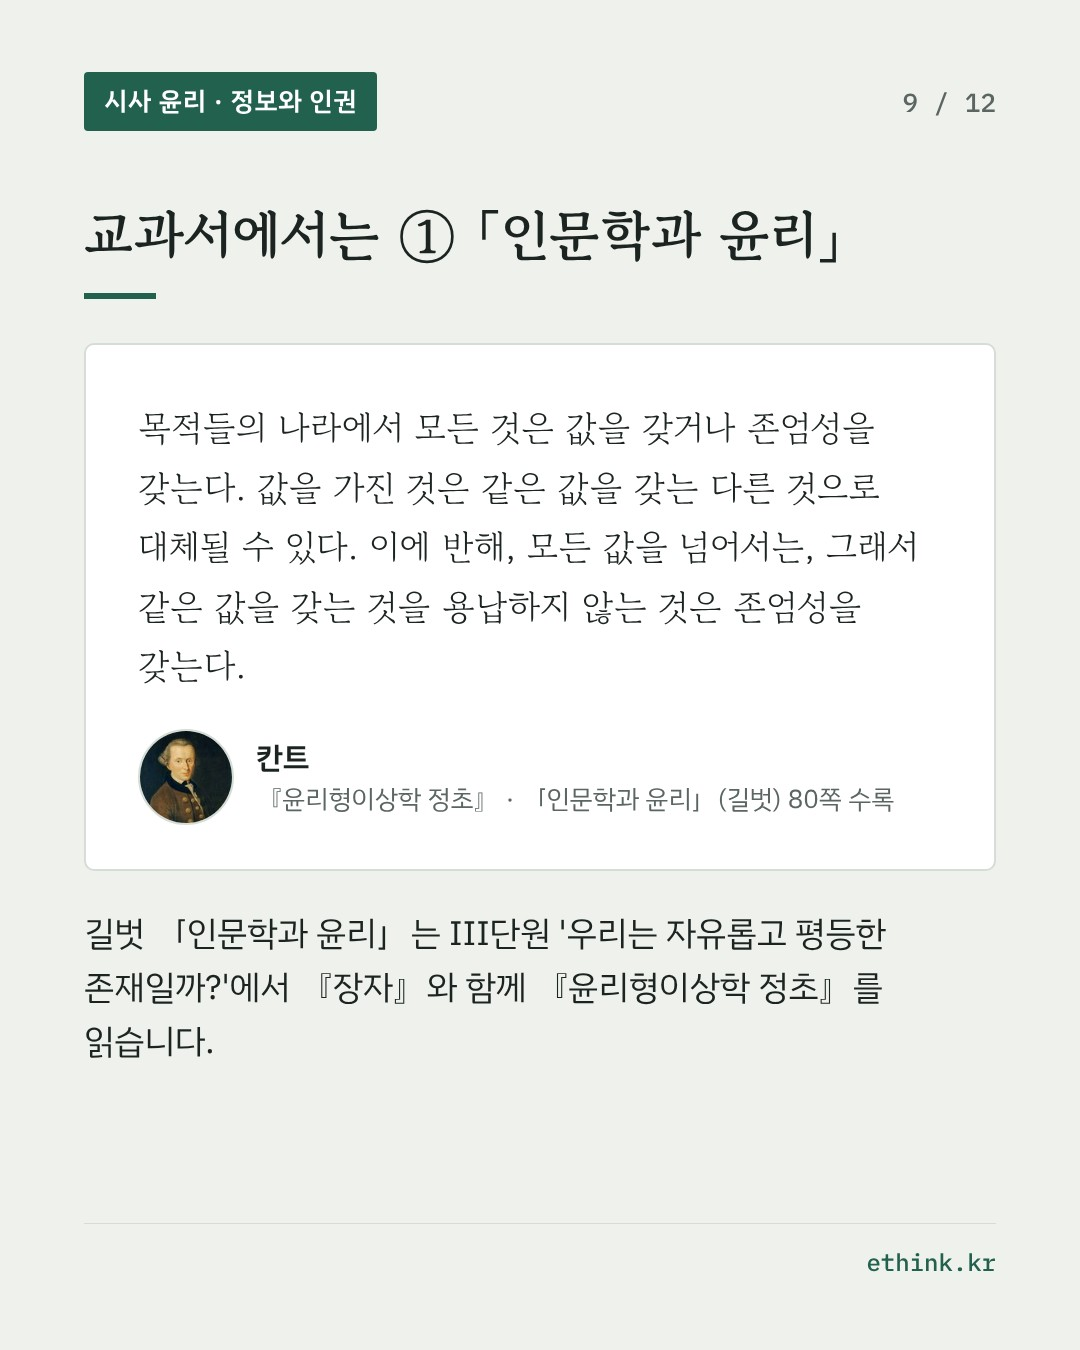
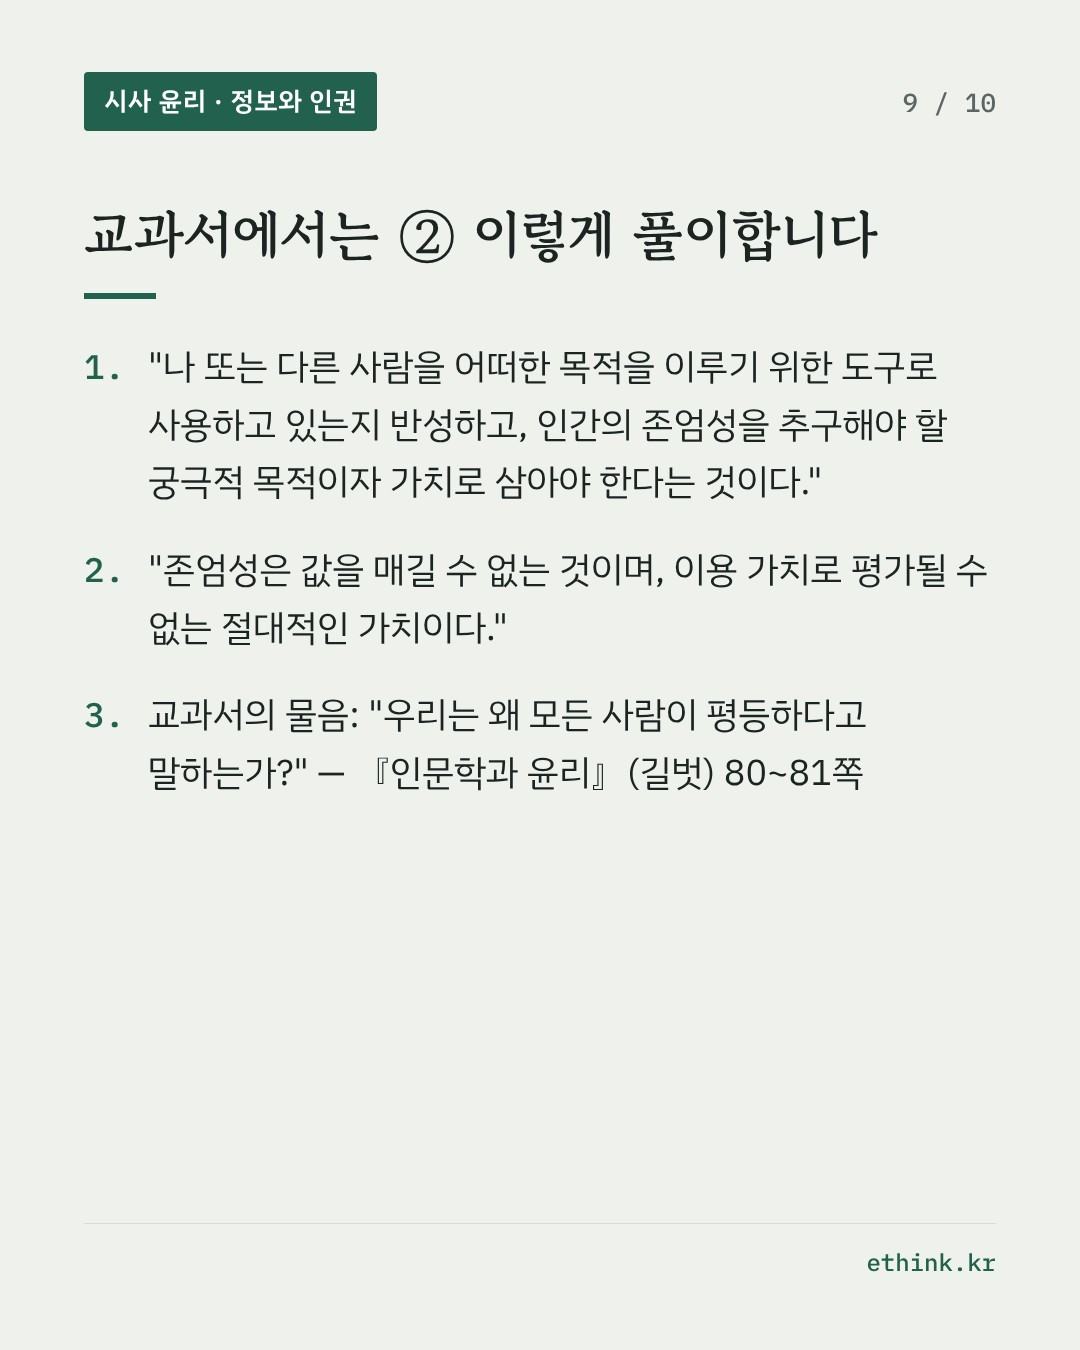
카드 시안 4: 10장(자동 게시 한도), 책·교과서 이름 겹낫쇠, 지침 갱신
Claude-Session: https://claude.ai/code/session_015bQvLW38M9G43q7XUxVD63

diff --git a/_tools/WRITING_GUIDE.md b/_tools/WRITING_GUIDE.md
@@ -31,7 +31,7 @@
 ## 4. 사상가 원문
 - 사상가가 나오면 원문을 함께 싣는다: `<figure class="src"><blockquote><p>원문</p></blockquote><figcaption>사상가, 『책』(옮긴이 옮김, 출판사, 연도) · 교과서/단행본 수록 위치</figcaption></figure>`. 두 입장 비교는 `<div class="vs">` 안에 figure 두 개, 각 figure에 `<p class="vs-head">입장 · 사상가</p>`.
 - 원문은 반드시 실제 텍스트에서 가져온다: 재형 님 옵시디언 볼트 `Vault/_library/`(책 OCR 원문, 읽기 전용)와 `Vault/textbook/`, 또는 확인 가능한 공개 원문. 기억으로 쓰거나 다듬어 만든 문장을 원문처럼 싣지 않는다. 찾지 못하면 그 자리에 `[원문 확인 필요: 사상가, 책, 찾을 대목]`을 남기고 보고한다.
-- 교과서 수록 원문이면 교과서와 사상가 책을 모두 출처로 적는다. 교과서는 「인문학과 윤리」(길벗) 80쪽 수록처럼 책 이름과 **쪽수**만 적고, 단원 이름이나 코너 이름(「사상으로 보는 윤리문제」, 「나의 인문학 노트」 등)은 적지 않는다. 쪽수는 Dropbox/AI 작업실/교과서 pdf로 콘텐츠 제작/의 교과서 PDF(한쪽보기)에서 pdftotext로 문장을 찾아 그 쪽에 인쇄된 번호로 확인한다. 단행본 『윤리 사상가로 읽는 통합사회』도 같은 방식으로 쪽수만 적는다(PDF: Dropbox/_드롭 창고/윤리 사상가로 읽는 통합사회 단행본 전체(표지포함).pdf, 두 쪽 펼침이라 인용문이 있는 쪽의 번호를 쓴다). 교과서가 아니면 사상가의 어느 책인지 밝힌다.
+- 교과서 수록 원문이면 교과서와 사상가 책을 모두 출처로 적는다. 교과서는 『인문학과 윤리』(길벗) 80쪽 수록처럼 책 이름과 **쪽수**만 적고, 단원 이름이나 코너 이름(「사상으로 보는 윤리문제」, 「나의 인문학 노트」 등)은 적지 않는다. 쪽수는 Dropbox/AI 작업실/교과서 pdf로 콘텐츠 제작/의 교과서 PDF(한쪽보기)에서 pdftotext로 문장을 찾아 그 쪽에 인쇄된 번호로 확인한다. 단행본 『윤리 사상가로 읽는 통합사회』도 같은 방식으로 쪽수만 적는다(PDF: Dropbox/_드롭 창고/윤리 사상가로 읽는 통합사회 단행본 전체(표지포함).pdf, 두 쪽 펼침이라 인용문이 있는 쪽의 번호를 쓴다). 교과서가 아니면 사상가의 어느 책인지 밝힌다.
 - 원문을 찾는 순서: ① 볼트 `Vault/_library/`(재형 님 도서관 라이브러리)와 기출 문제 원문 자료집 → ② 실제 한국어 번역서에 실린 문장 → ③ 원어 원문을 검색해 직접 번역(번역했음을 출처에 밝힌다).
 - 출처에 타사 교과서 출판사 이름을 쓰지 않는다. 타사 교과서를 써야 하면 출판사 이름은 빼고 과목과 단원만 밝힌다(예: 「현대사회와 윤리」 교과서 '직업 생활과 윤리' 단원 수록).
 
@@ -41,10 +41,11 @@
 
 ## 6. 썸네일(공유 이미지)
 - 글마다 `assets/og/YYYY-MM-DD-N.jpg`: `NODE_PATH=$(npm root -g) node _tools/og-page.cjs YYYY-MM-DD-N "윤리로 읽는 뉴스 · 묶음 이름" "글 제목" "수업 질문" /weekly/YYYY-MM-DD/N/` 로 만들고, 글 앞머리에 `og_image: /assets/og/YYYY-MM-DD-N.jpg`를 적는다. 없으면 호 이미지(호가 있을 때)나 사이트 기본 이미지가 쓰인다.
-- 인스타그램(@ethink.kr) 카드 뉴스(2026-10-27 글부터): 글마다 10~12장의 세로 카드(1080×1350)를 만든다. 시사 소재는 오늘의 현실과 잇는 재료이고, 카드의 중심은 그것을 보는 렌즈인 사상가의 이야기·이론·원문이다. 시사 사실은 1~2장으로 줄이고, 사상가 원문 카드(quote)를 여러 장 쓴다. 길벗 교과서에 해당 사상가가 실려 있으면 "교과서에서는" 카드로 교과서 인용·풀이·물음을 그대로 옮기고 쪽수를 적는다. 인스타그램 API는 10장까지만 자동 게시하므로 11장 이상이면 재형 님이 앱에서 직접 올린다.
+- 책 이름은 교과서를 포함해 겹낫쇠 『』로 쓴다(『인문학과 윤리』, 『윤리문제 탐구』). 홑낫쇠 「」는 단원·글·작품(그림) 이름에만 쓴다. 책·교과서 이름은 겹낫쇠.
+- 인스타그램(@ethink.kr) 카드 뉴스(2026-10-27 글부터): 글마다 10장의 세로 카드(1080×1350)를 만든다. 시사 소재는 오늘의 현실과 잇는 재료이고, 카드의 중심은 그것을 보는 렌즈인 사상가의 이야기·이론·원문이다. 시사 사실은 1~2장으로 줄이고, 사상가 원문 카드(quote)를 여러 장 쓴다. 길벗 교과서에 해당 사상가가 실려 있으면 "교과서에서는" 카드로 교과서 인용·풀이·물음을 그대로 옮기고 쪽수를 적는다. 인스타그램 API는 10장까지만 자동 게시하므로 10장을 넘기지 않는다.
   - 디자인: 시사 글은 연한 녹색 바탕·진한 녹색 표지, 책 글은 종이색 바탕·벽돌색 표지. 모든 카드 왼쪽 위 같은 자리에 분류(「시사 윤리 · 정보와 인권」, 「윤리로 읽는 책 · 지은이」), 하단에는 작게 ethink.kr만 둔다(Ethink 글자 넣지 않음).
   - 표지: 그림 한 장 위에 질문 한 줄(hook, 25자 안팎). 그림은 저작권이 풀린 명화·판화(위키미디어 커먼즈, 레이크스미술관·메트로폴리탄 CC0 등)나 사상가 초상, 재형 님이 찍은 사진만 쓴다. 보도사진은 쓰지 않는다. 받은 그림은 `assets/art/`에 두고 credit에 "작품명, 시대·작가 · 퍼블릭 도메인/CC0"를 적는다. 책 글에 그림이 없으면 책 표지가 가운데 들어간다.
-  - 카드 문안 `_items/YYYY-MM-DD/ig-cards-N.yml`을 쓴다(본보기 `_items/2026-10-24/ig-cards-1.yml`, 형식은 `_tools/ig-cards.cjs` 머리말). 기본 구성(본보기 12장): ① cover ② notes 오늘의 사건(사실 3개) ③~⑥ 첫 사상가: 이야기 풀이(그림), 원문 quote 2~3장(note로 사례와 잇는 한두 문장), 반대편 또는 대답 ⑦⑧ 둘째 사상가 원문 quote 2장 ⑨⑩ 교과서에서는(교과서 수록 원문 quote, 교과서 풀이 notes) ⑪ flow 수업 흐름 ⑫ end 이번 주 질문. 원문은 도서관 번역서·교과서 텍스트에서 그대로 옮기고(원어 괄호 표기만 뺄 수 있음) 출처에 권·스테파누스 쪽수나 B판 쪽수를 적는다. 핵심 말은 **굵게**.
+  - 카드 문안 `_items/YYYY-MM-DD/ig-cards-N.yml`을 쓴다(본보기 `_items/2026-10-24/ig-cards-1.yml`, 형식은 `_tools/ig-cards.cjs` 머리말). 기본 구성(본보기 10장): ① cover(sub에 사건 한두 문장) ②~⑤ 첫 사상가: 원문 quote, 이야기 풀이(그림), 원문 quote(note에 사건의 수치·사실을 이어 붙임), 반대편 또는 대답 ⑥⑦ 둘째 사상가 원문 quote 2장 ⑧⑨ 교과서에서는(교과서 수록 원문 quote, 교과서 풀이 notes) ⑩ end 이번 주 질문. 원문은 도서관 번역서·교과서 텍스트에서 그대로 옮기고(원어 괄호 표기만 뺄 수 있음) 출처에 권·스테파누스 쪽수나 B판 쪽수를 적는다. 핵심 말은 **굵게**.
   - 「윤리로 읽는 책」은 문안을 `_reads/ig/<글 파일이름>.yml`에 두고 ② 대신 book(표지 작게, "표지 이미지: 알라딘" 자동)과 underline(밑줄 1~2개) 카드를 쓴다. 책 글 카드는 자동 게시하지 않는다(재형 님이 따로 올림).
   - 생존 인물은 사이트와 같이 머리글자 원으로 둔다(faces.yml).
   - **승인**: 문안 파일 첫 줄 근처 `approved: false`로 만든다. 재형 님께 카드 이미지 전부와 캡션을 보여 드리고 승인을 받은 뒤에만 `approved: true`로 바꿔 main에 넣는다. `approved: true`가 아니면 자동 게시 도구가 올리지 않는다.
@@ -58,7 +59,7 @@
 ## 8. 「윤리로 읽는 책」
 - 정기 발행이 아니다. 재형 님이 읽은 책 가운데 골라 쓸 때마다 `_reads/YYYY-MM-DD-영문.md`로 올린다(양식 `_templates/새-책-글.md`).
 - 본문 소제목 세 개: `##### 이 책은 무엇을 묻나` / `##### 윤리 수업과 이어지는 지점` / `##### 수업에서 쓰는 법`.
-- 교과서 단원 연계표에서 「인문학과 윤리」·「윤리문제 탐구」가 나오면 단원명 뒤에 줄을 바꿔 `<br><span class="tbl-note">(길벗 교과서 ○○~○○쪽)</span>`으로 붙인다(볼드 없이 한 단계 작은 글자). 쪽수는 Dropbox `AI 작업실/교과서 pdf로 콘텐츠 제작/인문학과 윤리 소단원별` 등 길벗 교과서 PDF에서 확인한다.
+- 교과서 단원 연계표에서 『인문학과 윤리』·『윤리문제 탐구』가 나오면 단원명 뒤에 줄을 바꿔 `<br><span class="tbl-note">(길벗 교과서 ○○~○○쪽)</span>`으로 붙인다(볼드 없이 한 단계 작은 글자). 쪽수는 Dropbox `AI 작업실/교과서 pdf로 콘텐츠 제작/인문학과 윤리 소단원별` 등 길벗 교과서 PDF에서 확인한다.
 
 - 「윤리로 읽는 책」 글에는 실제 책 표지를 넣는다. 알라딘(우선)·예스24·교보문고 상품 페이지의 og:image(알라딘은 cover500)를 받아 `assets/covers/<글 파일이름>.jpg`로 저장하고, front matter에 `cover: /assets/covers/….jpg`, `cover_from: 알라딘`, `buy: <상품 페이지 주소>`를 적는다. 표지 아래에 "표지 이미지: 알라딘"이 자동으로 붙는다.
 - 사상가 인용문(`<figure class="src">`)의 figcaption이 "칸트, " 또는 "칸트 · "처럼 사상가 이름으로 시작하면 작은 초상이 자동으로 붙는다(`_data/faces.yml`, `assets/faces/*.jpg` 112×112). 글에 인용문으로 등장하는 모든 인물(사상가·저자·화자)에 적용한다. 새 인물이 나오면 위키미디어 공용에서 퍼블릭 도메인 또는 CC 라이선스 이미지를 찾아 라이선스를 확인하고 faces.yml에 항목(match, img, credit, license, url)을 추가한다(112×112 정사각형, 얼굴 중심). 소개 페이지 「이미지 출처」에 자동으로 실린다. 생존 인물처럼 자유 이용 사진이 없으면 img 대신 `initial: 머리글자`로 넣는다(서점·언론 사진을 가져다 쓰지 않는다). 초안 보고에 "○○ 사진은 자유 이용본이 없어 머리글자로 넣었습니다"라고 적어 재형 님이 허락을 구할지 정하게 한다.
